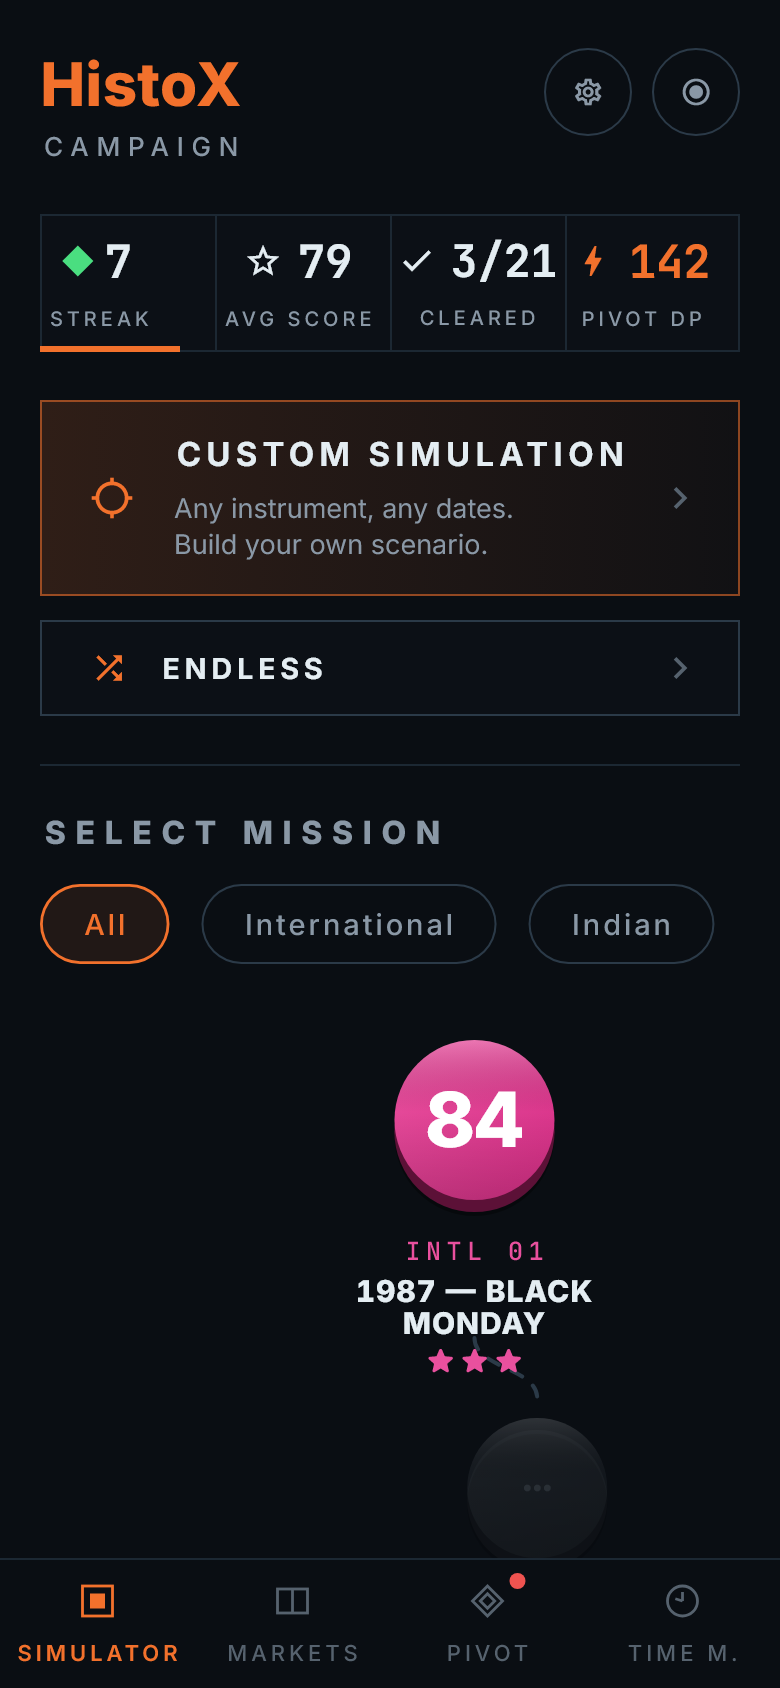
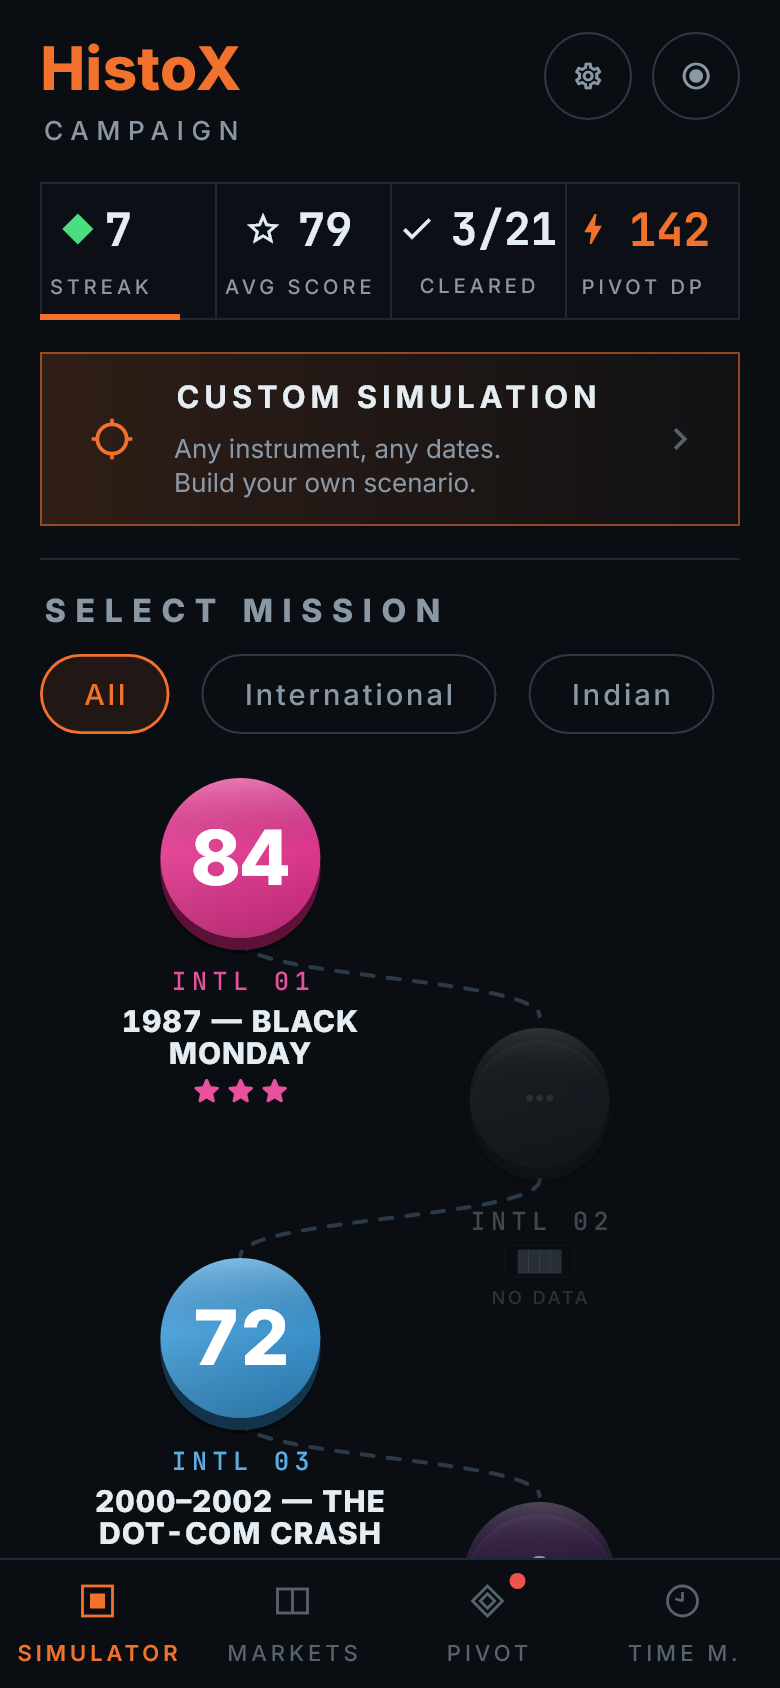
Match the campaign screen to the reference exactly
The map now starts where the reference starts it. Endless left the screen
for the run-settings sheet — the reference has exactly one card between
the stats strip and SELECT MISSION, and Endless is a way of playing
rather than a mission, so it sits with the mode switch. Nothing is
unreachable.

Node pitch drops from 176pt to the reference's 120, which is what puts
three nodes and PLAY inside one phone height. That only works because
nodes now alternate strictly left and right instead of following a sine:
the sine let two consecutive nodes sit at nearly the same x, and at this
pitch their labels would have collided. The connector runs rim to rim and
its cubic turns the zig-zag back into an S.

Every gap above the map was measured off the reference rather than
guessed.

flutter analyze clean, 187 tests pass.

diff --git a/lib/features/simulator/campaign/campaign_home.dart b/lib/features/simulator/campaign/campaign_home.dart
@@ -22,8 +22,13 @@ import '../level/level_screen.dart';
 import 'level_repository.dart';
 import 'widgets/campaign_path.dart';
 
-/// Simulator tab: the campaign as an S-curve path (artboard 1f), with the two
-/// other ways into the engine — Custom Simulation and Endless — above it.
+/// Simulator tab: the campaign as an S-curve path (artboard 1f), with the
+/// Custom Simulation above it.
+///
+/// The reference screen puts exactly one card between the stats strip and
+/// SELECT MISSION, so Endless — a way of playing rather than a mission —
+/// moved into the settings sheet. Every gap here is measured from that
+/// screen, which is why they are tighter than the app's usual rhythm.
 ///
 /// The map is driven entirely by `level_manifest.json` — adding or reordering
 /// a level is a data change, never a code change (CLAUDE.md).
@@ -57,7 +62,7 @@ class _CampaignHomeState extends ConsumerState<CampaignHome> {
             SliverPadding(
               padding: const EdgeInsets.fromLTRB(
                 AppSpacing.md + 4,
-                AppSpacing.lg,
+                AppSpacing.md,
                 AppSpacing.md + 4,
                 0,
               ),
@@ -72,7 +77,7 @@ class _CampaignHomeState extends ConsumerState<CampaignHome> {
                       ),
                     ),
                   ),
-                  const SizedBox(height: AppSpacing.lg),
+                  const SizedBox(height: AppSpacing.md),
                   _StatsStrip(
                     progress: progress,
                     streak: streak,
@@ -81,7 +86,7 @@ class _CampaignHomeState extends ConsumerState<CampaignHome> {
                       orElse: () => 0,
                     ),
                   ),
-                  const SizedBox(height: AppSpacing.lg),
+                  const SizedBox(height: AppSpacing.md),
                   _EntryCard(
                     emphasis: true,
                     icon: Icons.gps_not_fixed,
@@ -94,23 +99,9 @@ class _CampaignHomeState extends ConsumerState<CampaignHome> {
                       ),
                     ),
                   ),
-                  const SizedBox(height: AppSpacing.sm + 4),
-                  _EntryCard(
-                    compact: true,
-                    icon: Icons.shuffle,
-                    title: 'ENDLESS',
-                    body:
-                        'A window you have never seen.\nBlind, like the '
-                        'campaign.',
-                    onTap: () => Navigator.of(context).push(
-                      MaterialPageRoute<void>(
-                        builder: (_) => EndlessHome(mode: _mode),
-                      ),
-                    ),
-                  ),
-                  const SizedBox(height: AppSpacing.lg),
+                  const SizedBox(height: AppSpacing.md),
                   Container(height: 1, color: AppColors.border),
-                  const SizedBox(height: AppSpacing.lg),
+                  const SizedBox(height: AppSpacing.md),
                   Text(
                     'SELECT MISSION',
                     style: AppText.railLabel(
@@ -120,12 +111,12 @@ class _CampaignHomeState extends ConsumerState<CampaignHome> {
                       letterSpacing: 16 * 0.3,
                     ),
                   ),
-                  const SizedBox(height: AppSpacing.md),
+                  const SizedBox(height: AppSpacing.sm + 4),
                   _MarketFilter(
                     selected: _market,
                     onChanged: (AssetClass? m) => setState(() => _market = m),
                   ),
-                  const SizedBox(height: AppSpacing.lg),
+                  const SizedBox(height: AppSpacing.sm),
                 ],
               ),
             ),
@@ -229,6 +220,12 @@ class _CampaignHomeState extends ConsumerState<CampaignHome> {
       builder: (BuildContext sheetContext) => _RunSettingsSheet(
         mode: _mode,
         onMode: (SimulationMode m) => setState(() => _mode = m),
+        onEndless: () {
+          Navigator.of(sheetContext).pop();
+          Navigator.of(context).push(
+            MaterialPageRoute<void>(builder: (_) => EndlessHome(mode: _mode)),
+          );
+        },
         onDevRun: () {
           Navigator.of(sheetContext).pop();
           Navigator.of(context, rootNavigator: true).push(
@@ -538,7 +535,6 @@ class _EntryCard extends StatelessWidget {
     required this.body,
     required this.onTap,
     this.emphasis = false,
-    this.compact = false,
   });
 
   final IconData icon;
@@ -550,12 +546,6 @@ class _EntryCard extends StatelessWidget {
   /// on one of the two entries rather than weighing them up.
   final bool emphasis;
 
-  /// One line, no body copy. The reference set gives the Custom Simulation
-  /// the only card above the map and starts SELECT MISSION immediately after
-  /// it; Endless still has to be reachable, so it keeps a slim row instead of
-  /// being dropped — the map gains nearly all of the height either way.
-  final bool compact;
-
   @override
   Widget build(BuildContext context) {
     return Pressable(
@@ -563,19 +553,12 @@ class _EntryCard extends StatelessWidget {
       minTarget: 0,
       scale: 0.985,
       child: Container(
-        padding: compact
-            ? const EdgeInsets.fromLTRB(
-                AppSpacing.lg,
-                AppSpacing.sm + 4,
-                AppSpacing.md + 2,
-                AppSpacing.sm + 4,
-              )
-            : const EdgeInsets.fromLTRB(
-                AppSpacing.lg,
-                AppSpacing.md,
-                AppSpacing.md + 2,
-                AppSpacing.md,
-              ),
+        padding: const EdgeInsets.fromLTRB(
+          AppSpacing.lg,
+          AppSpacing.sm + 4,
+          AppSpacing.md + 2,
+          AppSpacing.sm + 4,
+        ),
         decoration: BoxDecoration(
           color: emphasis ? null : AppColors.surface.withValues(alpha: 0.5),
           gradient: emphasis
@@ -596,8 +579,8 @@ class _EntryCard extends StatelessWidget {
         ),
         child: Row(
           children: <Widget>[
-            Icon(icon, size: compact ? 19 : 22, color: AppColors.accent),
-            SizedBox(width: compact ? AppSpacing.md : AppSpacing.md + 4),
+            Icon(icon, size: 22, color: AppColors.accent),
+            const SizedBox(width: AppSpacing.md + 4),
             Expanded(
               child: Column(
                 crossAxisAlignment: CrossAxisAlignment.start,
@@ -607,23 +590,21 @@ class _EntryCard extends StatelessWidget {
                     maxLines: 1,
                     overflow: TextOverflow.ellipsis,
                     style: AppText.railLabel(
-                      size: compact ? 14.5 : 16.5,
+                      size: 15.5,
                       weight: FontWeight.w700,
                       color: AppColors.textPrimary,
-                      letterSpacing: (compact ? 14.5 : 16.5) * 0.16,
+                      letterSpacing: 15.5 * 0.16,
                     ),
                   ),
-                  if (!compact) ...<Widget>[
-                    const SizedBox(height: AppSpacing.sm),
-                    Text(
-                      body,
-                      style: AppText.body(
-                        size: 13.5,
-                        color: AppColors.textSecondary,
-                        height: 1.35,
-                      ),
+                  const SizedBox(height: AppSpacing.sm),
+                  Text(
+                    body,
+                    style: AppText.body(
+                      size: 13,
+                      color: AppColors.textSecondary,
+                      height: 1.3,
                     ),
-                  ],
+                  ),
                 ],
               ),
             ),
@@ -736,11 +717,16 @@ class _RunSettingsSheet extends StatefulWidget {
   const _RunSettingsSheet({
     required this.mode,
     required this.onMode,
+    required this.onEndless,
     required this.onDevRun,
   });
 
   final SimulationMode mode;
   final ValueChanged<SimulationMode> onMode;
+
+  /// Endless is a way of playing rather than a mission, so it sits with the
+  /// mode switch instead of on the map (see [CampaignHome]).
+  final VoidCallback onEndless;
   final VoidCallback onDevRun;
 
   @override
@@ -779,6 +765,17 @@ class _RunSettingsSheetState extends State<_RunSettingsSheet> {
               ),
               const SizedBox(height: AppSpacing.sm + 2),
             ],
+            const SizedBox(height: AppSpacing.lg),
+            Text('OTHER RUNS', style: AppText.label(size: 11)),
+            const SizedBox(height: AppSpacing.sm + 2),
+            HudButton(
+              label: 'ENDLESS',
+              subtitle: 'A WINDOW YOU HAVE NEVER SEEN',
+              height: 52,
+              fontSize: 14,
+              letterSpacingEm: 0.18,
+              onPressed: widget.onEndless,
+            ),
             const SizedBox(height: AppSpacing.lg),
             Text('DEVELOPMENT', style: AppText.label(size: 11)),
             const SizedBox(height: AppSpacing.sm + 2),

diff --git a/lib/features/simulator/campaign/widgets/campaign_path.dart b/lib/features/simulator/campaign/widgets/campaign_path.dart
@@ -47,10 +47,11 @@ class CampaignPath extends StatelessWidget {
   /// flex column and draws the path *behind* them at approximate coordinates,
   /// so 130 was never a spacing anyone had to honour. Using it literally made
   /// every label collide with the circle below it.
-  static const double _labelBlock = 66;
-  static const double _slotGap = 20;
-  static const double _spacing =
-      _PathNode.maxDiameter + _labelBlock + _slotGap;
+  /// Node pitch, measured off the reference screen: three cleared nodes and
+  /// the PLAY node inside one phone height. The label block is *not* added to
+  /// it — nodes alternate sides, so a node's labels hang in the gap beside
+  /// its neighbour rather than above it.
+  static const double _spacing = 120;
 
   static const double _firstCentre = 54;
 
@@ -60,13 +61,13 @@ class CampaignPath extends StatelessWidget {
 
   /// The serpentine.
   ///
-  /// A sine rather than a strict left-right alternation, so the path curves
-  /// instead of zig-zagging — but the period matters: at 0.85 rad per node the
-  /// wave was slower than the run of nodes on screen and read as a one-way
-  /// drift rather than an S. 1.15 turns over about every five nodes, and the
-  /// phase offset keeps the first node off dead-centre.
+  /// Strict left-right alternation, as the reference draws it. A sine was
+  /// gentler but let two consecutive nodes sit at nearly the same x, and at
+  /// this pitch their labels would have collided; alternating guarantees a
+  /// full swing of clear space beside every label. The connector's cubic
+  /// turns the zig-zag back into an S.
   static double _centreX(int i, double width) =>
-      width / 2 + _amplitude(width) * math.sin(i * 1.15 + 0.6);
+      width / 2 + _amplitude(width) * (i.isEven ? -1 : 1);
 
   @override
   Widget build(BuildContext context) {
@@ -110,10 +111,9 @@ class CampaignPath extends StatelessWidget {
                 child: CustomPaint(
                   painter: _PathPainter(
                     centres: centres,
-                    // A segment leaves below the label block it would
-                    // otherwise be drawn straight through, and arrives at the
-                    // top of the next circle.
-                    exitOffset: _PathNode.maxDiameter / 2 + _labelBlock - 6,
+                    // Rim to rim: at this pitch the segment runs diagonally
+                    // past the label rather than starting below it.
+                    exitOffset: _PathNode.maxDiameter / 2 - 4,
                     entryOffset: _PathNode.maxDiameter / 2 - 4,
                   ),
                 ),
@@ -148,7 +148,7 @@ class CampaignPath extends StatelessWidget {
   /// Nodes are positioned by their *centre*, with the label column allowed to
   /// overflow below — hence `Clip.none` on the Stack.
   Widget _positioned({required Offset centre, required Widget child}) {
-    const double slot = 168;
+    const double slot = 146;
     return Positioned(
       left: centre.dx - slot / 2,
       top: centre.dy - _PathNode.maxDiameter / 2,
@@ -168,8 +168,8 @@ class _PathPainter extends CustomPainter {
 
   final List<Offset> centres;
 
-  /// How far below a node's centre a segment starts — clear of that node's
-  /// own label block.
+  /// How far below a node's centre a segment starts — at the rim of its
+  /// circle.
   final double exitOffset;
 
   /// How far above the next node's centre a segment stops — at the rim of
@@ -320,7 +320,7 @@ class _PathNode extends StatefulWidget {
   });
 
   /// The largest node, used to align every slot on one baseline.
-  static const double maxDiameter = 98;
+  static const double maxDiameter = 90;
 
   final LevelManifestEntry entry;
   final LevelProgress? levelProgress;
